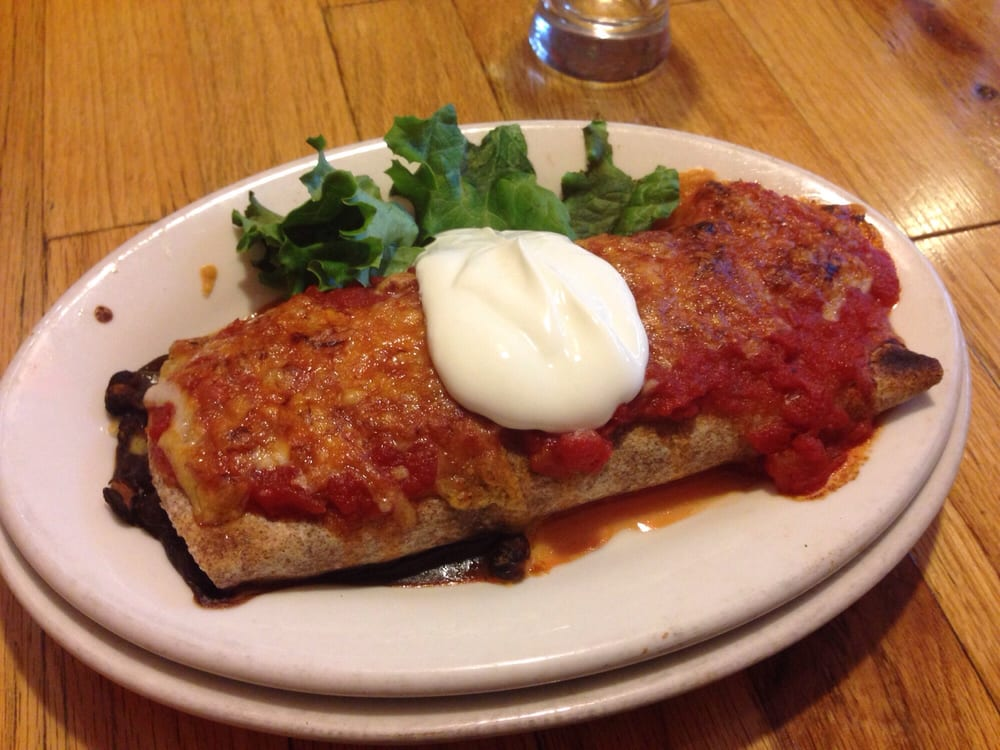
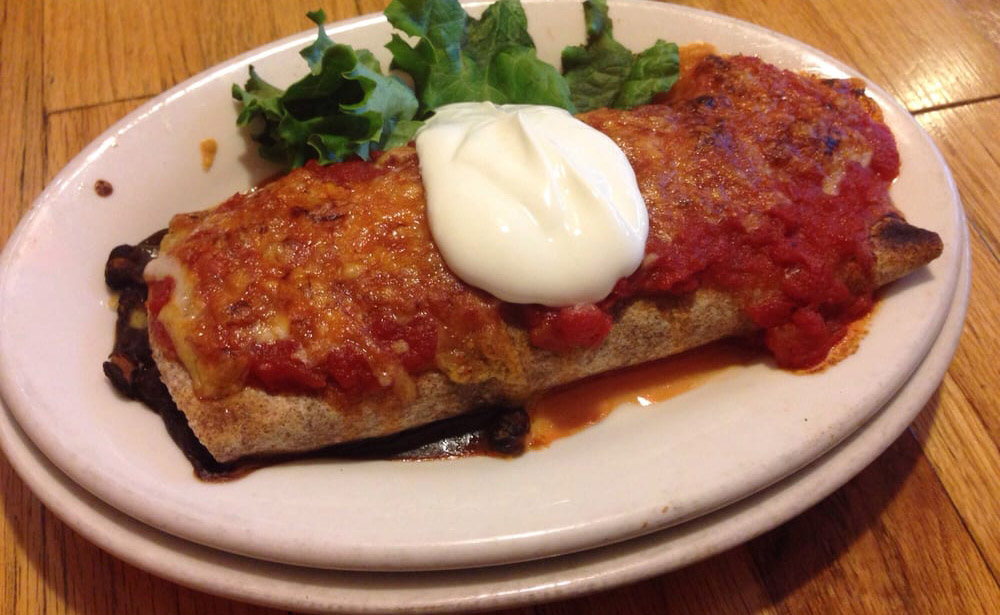
add thumbnail for burrito

diff --git a/content/docs/claude/2026-02-17-nearly-nasty-burrito.md b/content/docs/claude/2026-02-17-nearly-nasty-burrito.md
@@ -9,7 +9,7 @@ tags:
   - claude-opus
   - ai-assisted-development
 twitterImage: "/images/NearlyNormalsBurrito.jpg"
-thumbnail: "/images/NearlyNormalsBurrito.jpg"
+thumbnail: "/images/NearlyNormalsBurrito-thumbnail.jpg"
 aliases:
   - /claude/2026-02-17-nearly-nasty-burrito/
 ---
